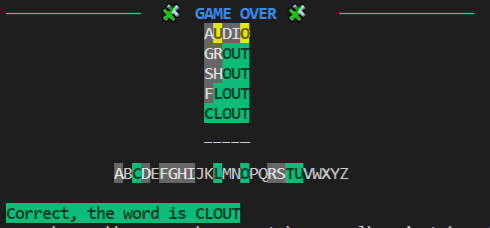
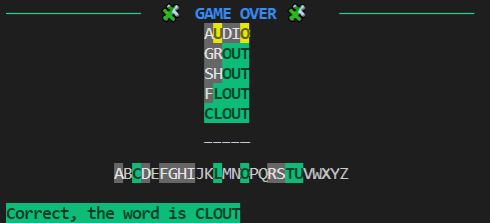
Fix README images

diff --git a/README.md b/README.md
@@ -56,7 +56,7 @@ python wordle.py
 3. You have 6 attempts to guess the correct word.
 
 ### Example Gameplay
-<img title="GUESS" alt="GUESS" src="/images/guess.PNG">
+<img title="GUESS" alt="GUESS" src="/images/Guess.PNG">
 <img title="GAME OVER" alt="GAME OVER" src="/images/Answer.PNG">
 
 
